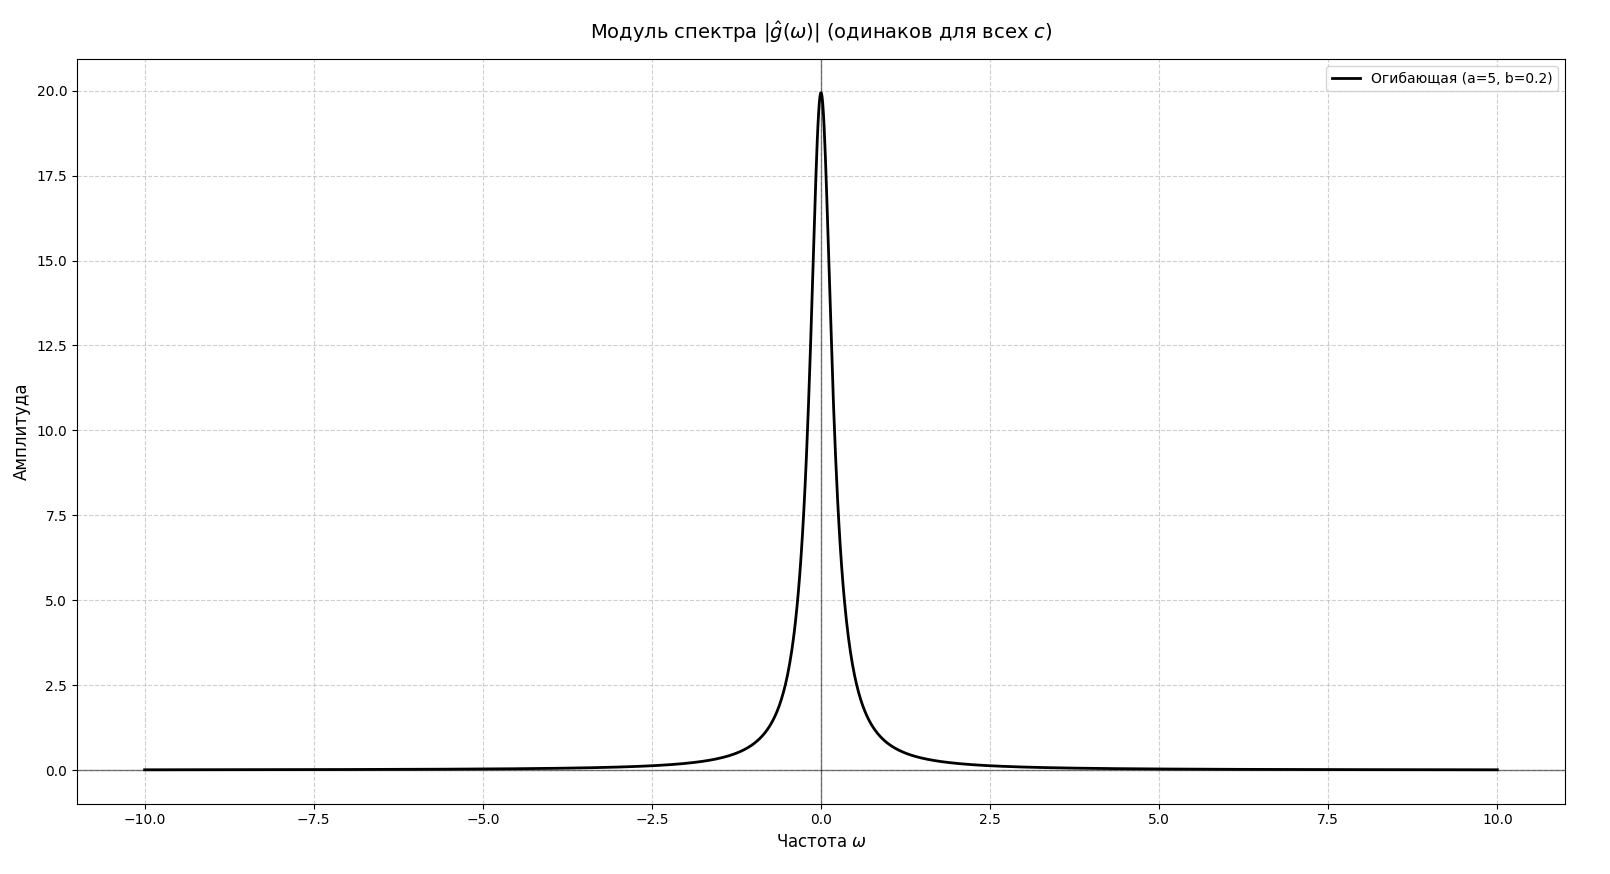
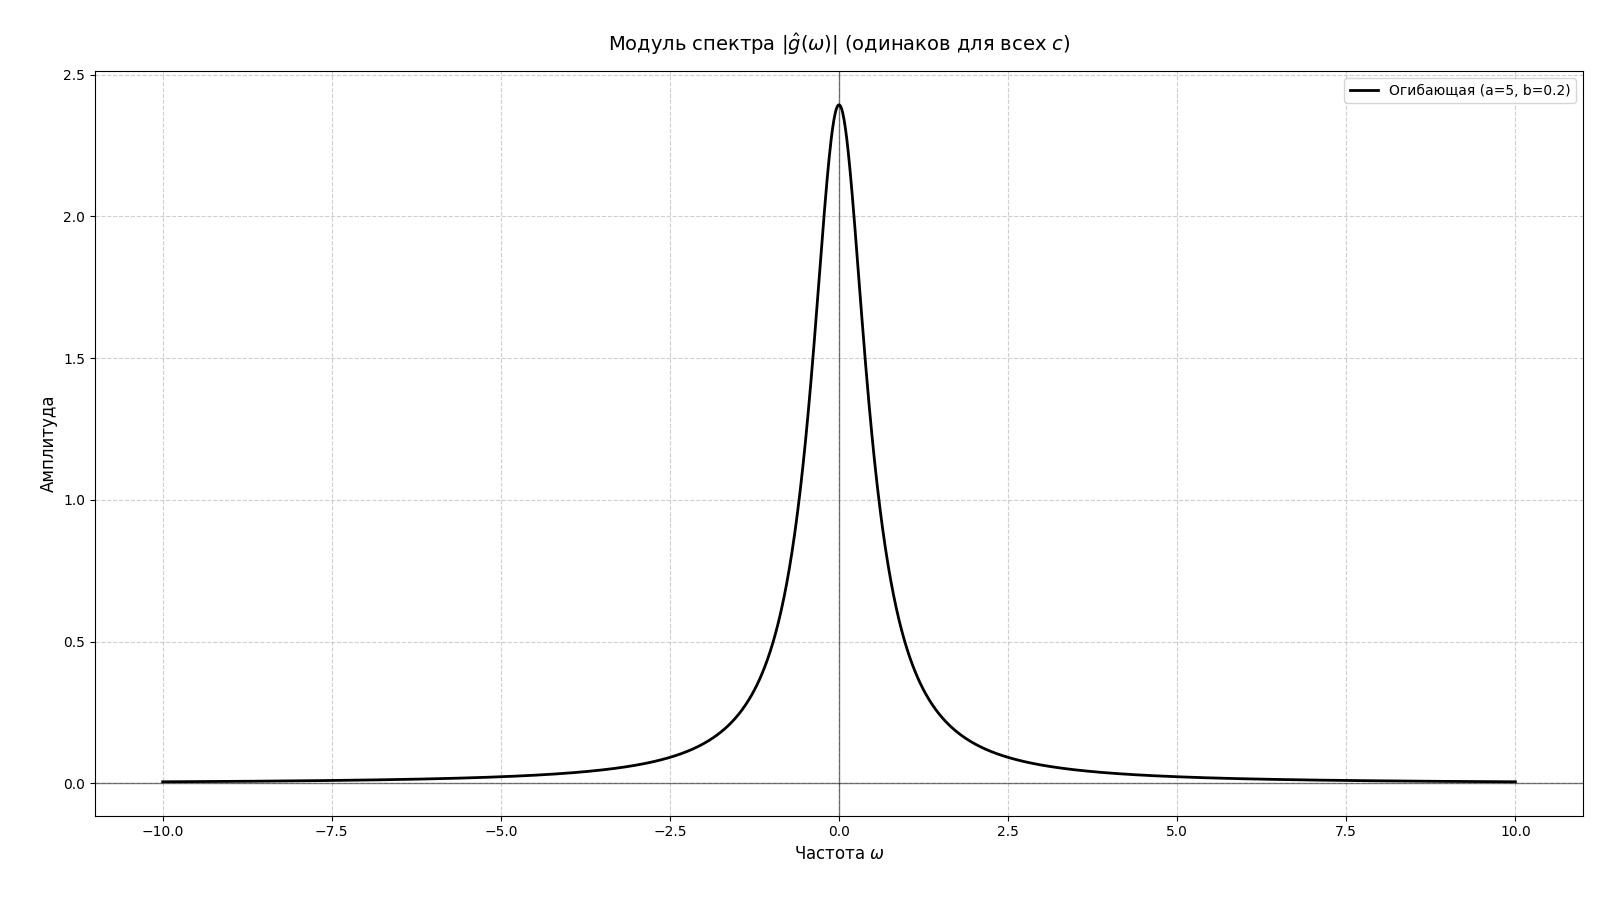
last version

diff --git a/CHM_lab2.tex b/CHM_lab2.tex
@@ -21,7 +21,6 @@
 \usepackage[dvipsnames]{xcolor}
 \usepackage[colorlinks]{hyperref}
 \usepackage{indentfirst}
-\usepackage{src/title}
 \usepackage{bookmark}
 \usepackage{hyperref}
 
@@ -112,6 +111,7 @@
     \end{center}
 \end{titlepage}
 
+
 \newpage
 \section*{Задание 1. Вещественное}
 \subsection*{1. Выполним унитарное преобразование Фурье для каждой функции}
@@ -183,9 +183,9 @@ a - \left| \frac{at}{b} \right|, & |t| \le b, \\
         \hline
         1 & 2 & 3 & 4 & 5\\
         \hline
-         (1,1) & (0.2, 5) & (5, 0.2) & (2, 10) & (10, 2)\\
+         (1,1) & (1.5, 0.5) & (0.5, 2) & (1.2, 1.5) & (0.8, 0.8)\\
          \hline
-         Синий & Оранжевый & Красный & Зелёный & Жёлтый\\
+         Синий & Оранжевый & Красный & Зелёный & Фиолетовый\\
          \hline
     \end{tabular}
 \end{center}
@@ -205,20 +205,14 @@ a, & |t| \le b, \\
 
 \begin{figure}[H]
     \centering
-    \includegraphics[width=0.5\linewidth]{imgs/first_t.png}
-    \caption{Оригиналы}
+    \includegraphics[width=1\linewidth]{imgs/1.png}
+    \caption{Прямоугольная функция}
     %\label{fig:placeholder}
 \end{figure}
 
-\begin{figure}[H]
-    \centering
-    \includegraphics[width=0.5\linewidth]{imgs/fisrtomegas.png}
-    \caption{Образы}
-    %\label{fig:placeholder}
-\end{figure}
 
 На функции-оригинале параметр $a$ отвечает за высоту графика, а $b$ - за ширину.\\
-В функции-образе, проявляется свойство масштабирования. Более узкие прямоугольники дают более растянутый образ, так как под функцией синуса находится параметр $b$. С помощью параметра $a$ можно компенсировать амплитуду.
+В функции-образе, проявляется свойство масштабирования, связанное с параметром $b$ и свойство линейности, связанное с параметром $a$. Более узкие прямоугольники дают более растянутый образ, так как под функцией синуса находится параметр $b$. С помощью параметра $a$ можно компенсировать амплитуду.
 \newpage
 \textbf{2. Треугольная функция}\\
 
@@ -231,18 +225,13 @@ a - \left| \frac{at}{b} \right|, & |t| \le b, \\
 
 \begin{figure}[H]
     \centering
-    \includegraphics[width=0.5\linewidth]{imgs/second_t.png}
-    \caption{Оригиналы}
-    %\label{fig:placeholder}
-\end{figure}
-\begin{figure}[H]
-    \centering
-    \includegraphics[width=0.5\linewidth]{imgs/second_omegas.png}
-    \caption{Образы}
+    \includegraphics[width=1\linewidth]{imgs/2.png}
+    \caption{Треугольная функция}
     %\label{fig:placeholder}
 \end{figure}
 
-В данном случае снова действует свойство масштабирования. На графиках видно, что более узким оригиналам соответствуют более растянутые образы, на это влияет параметр $b$. Параметр $a$ снова отвечает за амплитуду.\\
+
+В данном случае снова действует свойство масштабирования на параметре $b$, а параметр $a$ показывает свойство линейности. На графиках видно, что более узким оригиналам соответствуют более растянутые образы, на это влияет параметр $b$. Параметр $a$ снова отвечает за амплитуду.\\
 
 \textbf{3. Кардинальный синус}\\
 
@@ -255,19 +244,13 @@ a - \left| \frac{at}{b} \right|, & |t| \le b, \\
 
 \begin{figure}[H]
     \centering
-    \includegraphics[width=0.5\linewidth]{imgs/third_t.png}
-    \caption{Оригиналы}
+    \includegraphics[width=1\linewidth]{imgs/3.png}
+    \caption{Кардинальный синус}
     %\label{fig:placeholder}
 \end{figure}
 
-\begin{figure}[H]
-    \centering
-    \includegraphics[width=0.5\linewidth]{imgs/third_omegas.png}
-    \caption{Образы}
-    %\label{fig:placeholder}
-\end{figure}
 
-В данном случае получается операция, обратная пункту 1. Параметр $b$ снова отражает свойство масштабирования. Параметр $a$ влияет на амплитуду.\\
+В данном случае получается операция, обратная пункту 1. Параметр $b$ снова отражает свойство масштабирования. Параметр $a$ влияет на амплитуду и отражает свойство линейности.\\
 
 \textbf{4. Функция Гаусса}\\
 
@@ -277,19 +260,13 @@ a - \left| \frac{at}{b} \right|, & |t| \le b, \\
 
 \begin{figure}[H]
     \centering
-    \includegraphics[width=0.5\linewidth]{imgs/fourth_t.png}
-    \caption{Оригиналы}
+    \includegraphics[width=1\linewidth]{imgs/4.png}
+    \caption{Функция Гаусса}
     %\label{fig:placeholder}
 \end{figure}
 
-\begin{figure}[H]
-    \centering
-    \includegraphics[width=0.5\linewidth]{imgs/fourth_omegas.png}
-    \caption{Образы}
-    %\label{fig:placeholder}
-\end{figure}
 
-Параметр $a$ отвечает за масштабирование амплитуды, а параметр $b$ - за масштабирование частоты.\\
+Параметр $a$ отражает свойство линейности, а параметр $b$ - масштабирования.\\
 
 \textbf{5. Двустороннее затухание}\\
 
@@ -299,17 +276,11 @@ a - \left| \frac{at}{b} \right|, & |t| \le b, \\
 
 \begin{figure}[H]
     \centering
-    \includegraphics[width=0.5\linewidth]{imgs/fifth_t.png}
-    \caption{Оригиналы}
+    \includegraphics[width=1\linewidth]{imgs/5.png}
+    \caption{Двустороннее затухание}
     %\label{fig:placeholder}
 \end{figure}
 
-\begin{figure}[H]
-    \centering
-    \includegraphics[width=0.5\linewidth]{imgs/fifth_omegas.png}
-    \caption{Образы}
-    %\label{fig:placeholder}
-\end{figure}
 
 Параметр $a$ отвечает за масштабирование амплитуды, а $b$ - за масштабирование частоты.
 
@@ -329,13 +300,13 @@ a - \left| \frac{at}{b} \right|, & |t| \le b, \\
      \hline
       (1, 1)& 2.0 & 2.000091 & Да \\
       \hline
-      (0.2, 5)& 0.4& 0.400633& Да \\
+      (1.5, 0.5)& 2.25& 2.250237& Да \\
       \hline
-        (5, 0.2)& 10.0 & 10.001321 & Да\\
+        (0.5, 2)& 1.0 & 1.000082 & Да\\
         \hline
-        (2, 10)& 80.0  & 79.997822 & Да\\
+        (1.2, 1.5)& 4.32 & 4.320921 & Да\\
         \hline
-        (10, 2)& 400.0 & 400.032956 & Да\\
+        (0.8, 0.8)& 1.024 & 1.02382 & Да\\
         \hline
 \end{tabular}
 \end{center}
@@ -346,15 +317,16 @@ a - \left| \frac{at}{b} \right|, & |t| \le b, \\
     \hline
      $(a, b)$& $\int\limits_{-\infty}^{\infty} |f(t)|^2 dt$ & $\int\limits_{-\infty}^{\infty}|f(\omega)|^2d\omega$ & Приблизительно равны\\
      \hline
+      \hline
       (1, 1)& 0.666667 & 0.666667 & Да \\
       \hline
-      (0.2, 5)&0.133333 &0.133333 & Да \\
+      (1.5, 0.5)& 0.75& 0.75& Да \\
       \hline
-        (5, 0.2)& 3.333333 & 3.333333 & Да\\
+        (0.5, 2)& 0.333333& 0.333333 & Да\\
         \hline
-        (2, 10)& 26.666667 & 26.666667 & Да\\
+        (1.2, 1.5)& 1.44 & 1.44 & Да\\
         \hline
-        (10, 2)& 133.333333 & 133.333333 & Да\\
+        (0.8, 0.8)& 0.341333 & 0.341333 & Да\\
         \hline
 \end{tabular}
 \end{center}
@@ -364,15 +336,15 @@ a - \left| \frac{at}{b} \right|, & |t| \le b, \\
     \hline
      $(a, b)$& $\int\limits_{-\infty}^{\infty} |f(t)|^2 dt$ & $\int\limits_{-\infty}^{\infty}|f(\omega)|^2d\omega$ & Приблизительно равны\\
      \hline
-      (1, 1)& 3.141736 & 3.141593 & Да \\
+      (1, 1)& 3.141736 & 3.141593& Да \\
       \hline
-      (0.2, 5)& 0.025173 & 0.025133& Да \\
+      (1.5, 0.5)&14.138658 & 14.137167& Да \\
       \hline
-        (5, 0.2)& 392.75094 &392.699082  & Да\\
+        (0.5, 2)& 0.392731& 0.392699 & Да\\
         \hline
-        (2, 10)& 1.256603 & 1.256637 & Да\\
+        (1.2, 1.5)&3.016572  & 3.015929 & Да\\
         \hline
-        (10, 2)& 157.092574 & 157.079633 & Да\\
+        (0.8, 0.8)& 2.512833 & 2.513274 & Да\\
         \hline
 \end{tabular}
 \end{center}
@@ -380,17 +352,17 @@ a - \left| \frac{at}{b} \right|, & |t| \le b, \\
 \begin{center}
 \begin{tabular}{|c|c|c|c|}
     \hline
-     $(a, b)$& $\int\limits_{-\infty}^{\infty} |f(t)|^2 dt$ & $\int\limits_{-\infty}^{\infty}|f(\omega)|^2d\omega$ & Приблизительно равны\\
-     \hline
-      (1, 1)& 1.253314 & 1.253314 & Да \\
+    $(a, b)$& $\int\limits_{-\infty}^{\infty} |f(t)|^2 dt$ & $\int\limits_{-\infty}^{\infty}|f(\omega)|^2d\omega$ & Приблизительно равны\\
+    \hline
+    (1, 1)& 1.253314 & 7.874805 & Да \\
       \hline
-      (0.2, 5)& 0.02242 &0.02242 & Да \\
+      (1.5, 0.5)&3.988021 &25.057476 & Да \\
       \hline
-        (5, 0.2)& 70.06239 & 70.06239 & Да\\
+        (0.5, 2)&0.221557 & 1.392082 & Да\\
         \hline
-        (2, 10)& 1.585331 & 1.585331 & Да\\
+        (1.2, 1.5)& 1.47359 & 9.258842& Да\\
         \hline
-        (10, 2)& 88.622693 & 88.622693 & Да\\
+        (0.8, 0.8)& 0.896799 & 5.634752 & Да\\
         \hline
 \end{tabular}
 \end{center}
@@ -401,15 +373,15 @@ a - \left| \frac{at}{b} \right|, & |t| \le b, \\
     \hline
      $(a, b)$& $\int\limits_{-\infty}^{\infty} |f(t)|^2 dt$ & $\int\limits_{-\infty}^{\infty}|f(\omega)|^2d\omega$ & Приблизительно равны\\
      \hline
-      (1, 1)& 1.0 & 1.0 & Да \\
+     (1, 1)& 1.0 & 1.0& Да \\
       \hline
-      (0.2, 5)& 0.008 & 0.008 & Да \\
+      (1.5, 0.5)&4.5 & 4.5& Да \\
       \hline
-        (5, 0.2)& 125.0 & 125.0 & Да\\
+        (0.5, 2)& 0.125& 0.125 & Да\\
         \hline
-        (2, 10)& 0.4 & 0.4 & Да\\
+        (1.2, 1.5)& 0.96 & 0.96 & Да\\
         \hline
-        (10, 2)& 50.0 & 50.0 & Да\\
+        (0.8, 0.8)& 0.8 & 0.8 & Да\\
         \hline
 \end{tabular}
 \end{center}
@@ -419,7 +391,7 @@ a - \left| \frac{at}{b} \right|, & |t| \le b, \\
 \newpage
 \section*{Задание 2. Комплексное}
 
-Для выполнения данного задания выберем функцию двустороннего затухания $f(t) = ae^{-b|t|}$. Набор параметров выберем $a=5$, $b=0.2$.\\
+Для выполнения данного задания выберем функцию двустороннего затухания $f(t) = ae^{-b|t|}$. Набор параметров выберем $a=1.5$, $b=0.5$.\\
 
 Функция $g(t) = f(t + c)$ будет иметь вид $g(t) = ae^{-b|t+c|}$.\\
 
@@ -454,7 +426,7 @@ a - \left| \frac{at}{b} \right|, & |t| \le b, \\
 Построим графики $g(t)$ с разными параметрами $c$:\\
 \begin{figure}[H]
     \centering
-    \includegraphics[width=0.5\linewidth]{imgs/tasl2.png}
+    \includegraphics[width=1\linewidth]{imgs/org.png}
     \caption{Оригиналы}
     %\label{fig:placeholder}
 \end{figure}

diff --git a/code/calcs.py b/code/calcs.py
@@ -20,7 +20,7 @@ def F_w(w, a, b):
 energy_time, error_t = quad(lambda t: f_t(t, a, b)**2, -np.inf, np.inf)
 
 # Энергия в частоте: (1 / 2*pi) * интеграл от -inf до +inf |F(w)|^2 dw
-energy_freq, error_w = quad(lambda w: (1 / (2 * np.pi)) * F_w(w, a, b)**2, -np.inf, np.inf)
+energy_freq, error_w = quad(lambda w: F_w(w, a, b)**2, -np.inf, np.inf)
 
 # 4. Вывод результатов в консоль
 print(f"--- Результаты (a={a}, b={b}) ---")

diff --git a/code/ch_lab2.py b/code/ch_lab2.py
@@ -53,10 +53,11 @@ def f_w(w, a, b):
     return a * np.sqrt(2/np.pi) * (b/(b**2 + w**2))
 
 def result_func():
-    ab = [[1, 1], [0.2, 5], [5, 0.2], [2, 10], [10, 2]]
+    ab = [[1, 1], [1.5, 0.5], [0.5, 2], [1.2, 1.5], [0.8, 0.8]]
 
     for sample in ab:
         a = sample[0]
         b = sample[1]
         print(equation(lambda t: f_t(t, a, b)**2, lambda w:f_w(w, a, b)**2))
 
+print(result_func())

diff --git a/code/complex_graphs.py b/code/complex_graphs.py
@@ -2,8 +2,8 @@ import numpy as np
 import matplotlib.pyplot as plt
 
 # 1. Фиксированные параметры из условия
-a_fixed = 5.0
-b_fixed = 0.2
+a_fixed = 1.5
+b_fixed = 0.5
 c_norm_const = np.sqrt(2.0 / np.pi)
 
 # Параметры сдвига 'c' и соответствующие цвета из таблицы
